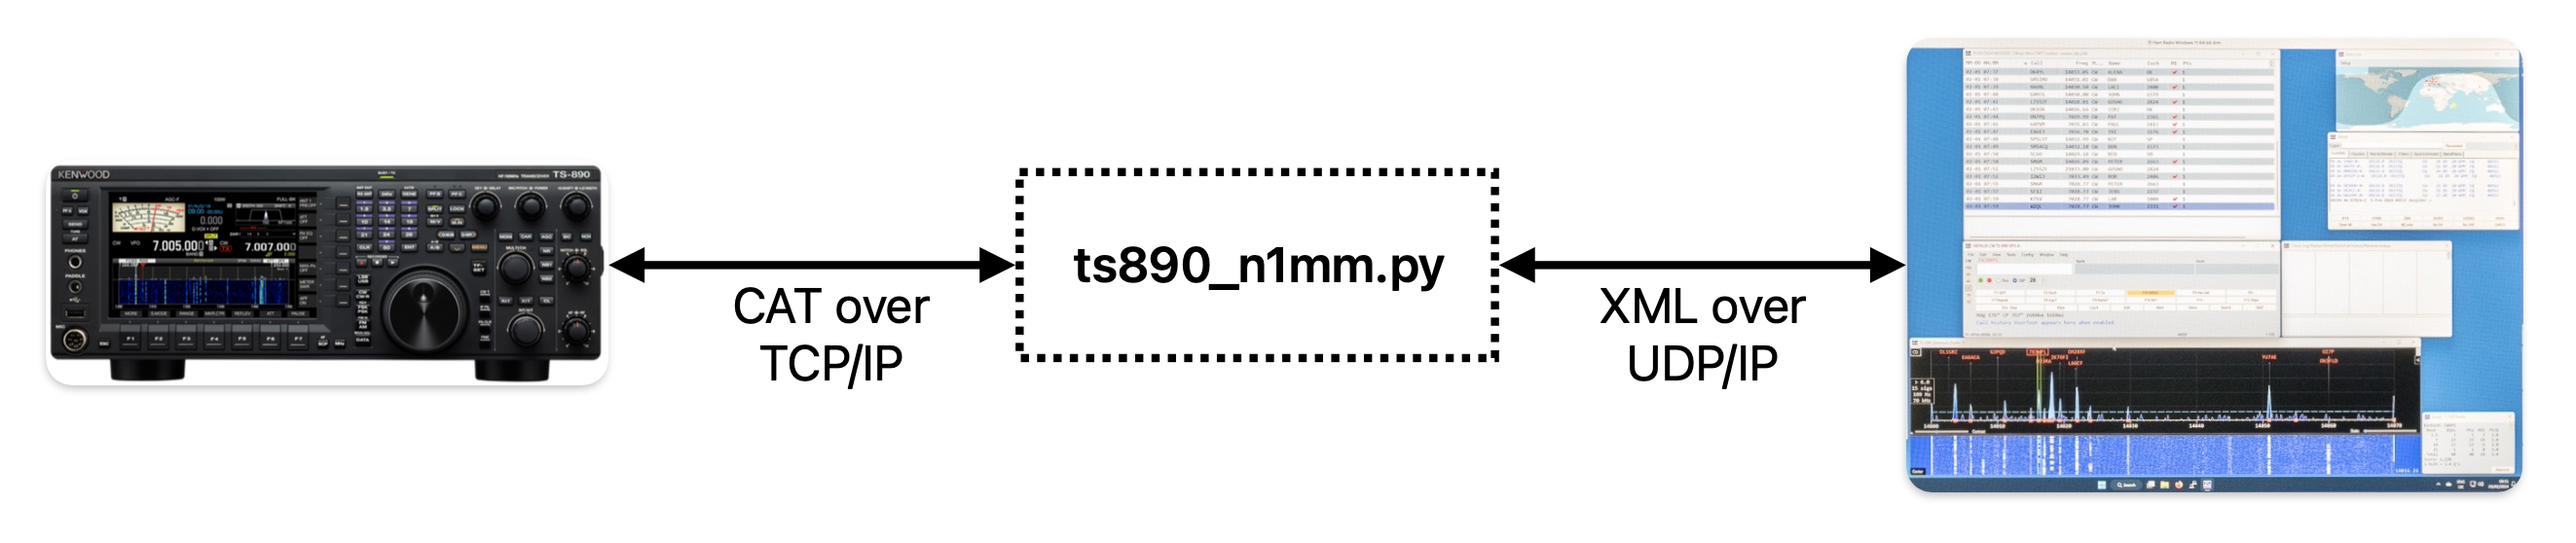
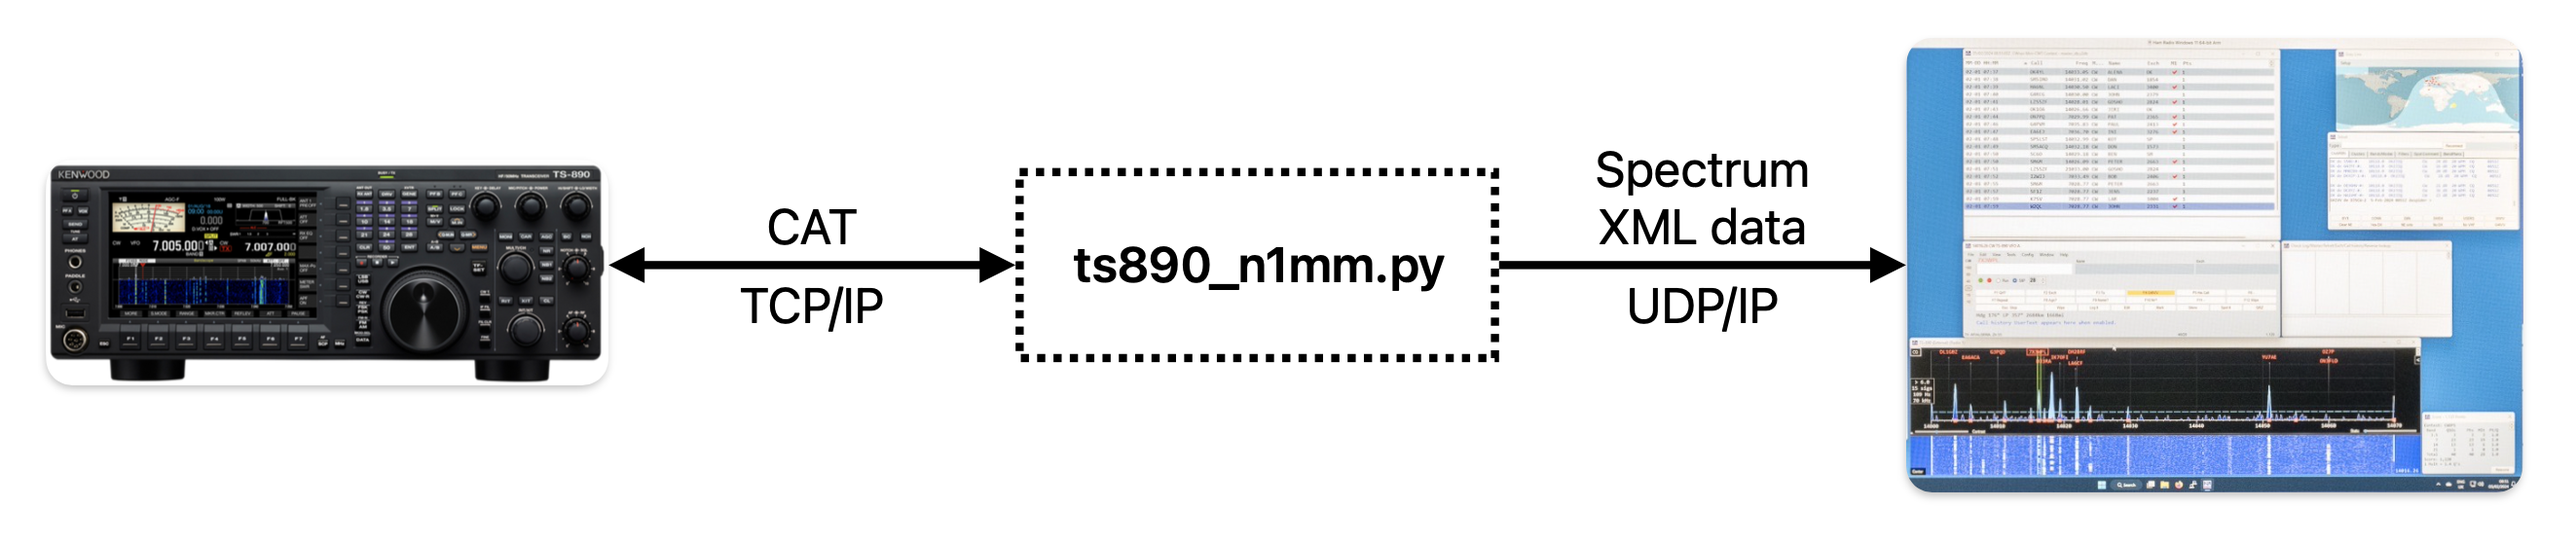
Added user account support, updated README

diff --git a/ts890_n1mm.py b/ts890_n1mm.py
@@ -1,8 +1,8 @@
 #!/usr/bin/env python3
 
 '''
-Script to connect to a Kenwood TS-890S, read the spectrum data and
-forward to an instance of N1MM+ logger.
+Script to connect to a Kenwood TS-890S, read the band scope data
+and forward to an instance of N1MM+ logger.
 
 (c) 2024 Jonathan Perkins G4IVV
 '''
@@ -10,6 +10,7 @@ forward to an instance of N1MM+ logger.
 import asyncio
 from asyncio import Queue
 import argparse
+import textwrap
 import xml.etree.ElementTree as ET
 
 
@@ -50,13 +51,12 @@ class AppException(Exception):
         ''' Getter for additional info '''
         return self._additional
 
-#--------------------------------------------------------------
-# TS-890 CAT command helpers
-#--------------------------------------------------------------
-
-def cat_id(username, password):
-    ''' Format an adminstrator ID login command '''
-    return f'##ID0{len(username):02}{len(password):02}{username}{password};'
+class Ts890ConnectionException(AppException):
+    ''' Exception for TS-890 connection errors '''
+    def __init__(self, value, additional=''):
+        self._context = 'TS-890 connection'
+        self._additional = additional
+        super(AppException, self).__init__(value)
 
 #--------------------------------------------------------------
 # TS-890 class
@@ -64,9 +64,10 @@ def cat_id(username, password):
 
 class Ts890:
     ''' TS-890 configuration and status '''
-    def __init__(self, host, user, password):
+    def __init__(self, host, account, is_admin, password):
         self._host = host
-        self._user = user
+        self._account = account
+        self._is_admin = is_admin
         self._password = password
         self._bs_mode = None
         self._bs_span_hz = None
@@ -82,9 +83,14 @@ class Ts890:
         return self._host
 
     @property
-    def user(self):
-        ''' Returns the username to login to the TS-890 '''
-        return self._user
+    def account(self):
+        ''' Returns the account name to login to the TS-890 '''
+        return self._account
+
+    @property
+    def is_admin(self):
+        ''' Returns True if the TS-890 credentials are for teh admin account '''
+        return self._is_admin
 
     @property
     def password(self):
@@ -245,7 +251,8 @@ class N1mmSpectrumProtocol:
     def connection_lost(self, exc):
         ''' Mandatory connection_lost method '''
         # The socket has been closed
-        print(f'N1MM transport closed: {exc}')
+        if exc:
+            print(f'N1MM transport closed: {exc}')
 
     def datagram_received(self, data, addr):
         ''' UDP datagram received callback '''
@@ -287,6 +294,20 @@ async def send_to_n1mm(queue: Queue, n1mm_host):
             queue.task_done()
     finally:
         transport.close()
+
+#--------------------------------------------------------------
+# TS-890 CAT command helpers
+#--------------------------------------------------------------
+
+def cat_id(ts890: Ts890):
+    ''' Format an adminstrator/user ID login command '''
+    if ts890.is_admin:
+        acct_type = 0
+    else:
+        acct_type =1
+    return (f'##ID{acct_type}'
+            f'{len(ts890.account):02}{len(ts890.password):02}'
+            f'{ts890.account}{ts890.password};')
 
 #--------------------------------------------------------------
 # Interface to TS-890
@@ -474,7 +495,7 @@ class Ts890Connection:
             and save it in the queue
         '''
         try:
-            print(f"Connecting to TS-890 {self._ts890.host}")
+            print(f"Connecting to TS-890 [{self._ts890.host}]")
             self._reader, self._writer = await asyncio.wait_for(
                 asyncio.open_connection(self._ts890.host, KNS_CTRL_PORT),
                 10)
@@ -485,7 +506,7 @@ class Ts890Connection:
                 # Response ##CNx; (x=1 ok, x=0 connection refused)
                 if resp == '##CN1;':
                     # Send ##ID & read response ##IDx; (x=1 ok, x=0 connection refused)
-                    resp = await self._send_cmd_wait_response(cat_id(self._ts890.user, self._ts890.password))
+                    resp = await self._send_cmd_wait_response(cat_id(self._ts890))
                     if resp == '##ID1;':
                         print('Connected OK')
                         # Turn on auto information AI2;
@@ -502,16 +523,16 @@ class Ts890Connection:
                                 self._do_heartbeat()
                         )
                     else:
-                        print('TS-890 login failure')
+                        raise Ts890ConnectionException('login failure',
+                                additional='[check account information is correct]')
                 else:
-                    print('TS-890 connection refused')
+                    raise Ts890ConnectionException('connection refused')
             finally:
                 self._writer.close()
                 await self._writer.wait_closed()
         except asyncio.TimeoutError as exp:
-            raise AppException('timeout connecting to',
-                               context='TS-890 connection',
-                               additional=self._ts890.host) from exp
+            raise Ts890ConnectionException('timeout connecting to',
+                    additional=self._ts890.host) from exp
         except OSError as exp:
             raise AppException(exp, 'connecting to TS-890') from exp
 
@@ -537,27 +558,46 @@ async def main(ts890, n1mm):
         pass
 
 if __name__ == '__main__':
-    PARSER = argparse.ArgumentParser(fromfile_prefix_chars='@')
+    PARSER = argparse.ArgumentParser(
+        fromfile_prefix_chars='@',
+        description=textwrap.dedent(
+            r'''
+            Script to read bandscope data from a TS-890S and send it to N1MM+ logger.
+            ''')
+    )
 
-    PARSER.add_argument('-t', '--ts890',
-                        required=True,
-                        dest = 'ts890',
-                        metavar = '<host or addr>',
-                        help = 'TS-890 IP address or hostname')
+    TS890_GROUP = PARSER.add_argument_group('TS-890 options')
 
-    PARSER.add_argument('-u', '--username',
-                        required=True,
-                        dest = 'user',
-                        metavar = '<username>',
-                        help = 'TS-890 username')
+    TS890_GROUP.add_argument('-t', '--ts890',
+                             required=True,
+                             dest = 'ts890',
+                             metavar = '<host or addr>',
+                             help = 'TS-890 IP address or hostname')
 
-    PARSER.add_argument('-p', '--password',
-                        required=True,
-                        dest = 'password',
-                        metavar = '<password>',
-                        help = 'TS-890 password')
+    TS890_GROUP.add_argument('-p', '--password',
+                             required=True,
+                             dest = 'password',
+                             metavar = '<password>',
+                             help = 'TS-890 password')
 
-    PARSER.add_argument('-n', '--n1mm',
+    # Mutually exclusive account group for TS-890
+    ACCOUNT_GROUP = PARSER.add_argument_group(
+        'Specify either an admin or user account for the TS-890')
+    ACCOUNTS = ACCOUNT_GROUP.add_mutually_exclusive_group(required=True)
+
+    ACCOUNTS.add_argument('-a', '--admin',
+                          dest = 'admin',
+                          metavar = '<admin account name>',
+                          help = 'TS-890 admin name')
+
+    ACCOUNTS.add_argument('-u', '--user',
+                          dest = 'user',
+                          metavar = '<user account name>',
+                          help = 'TS-890 user name')
+
+    N1MM_GROUP = PARSER.add_argument_group('N1MM options')
+
+    N1MM_GROUP.add_argument('-n', '--n1mm',
                         dest = 'n1mm',
                         metavar = '<host or addr>',
                         help = 'N1MM IP address or hostname',
@@ -566,9 +606,13 @@ if __name__ == '__main__':
     ARGS = PARSER.parse_args()
 
     try:
-        ts890_ctx = Ts890(ARGS.ts890, ARGS.user, ARGS.password)
+        # Admin or user account?
+        if ARGS.admin:
+            ts890_ctx = Ts890(ARGS.ts890, ARGS.admin, True, ARGS.password)
+        else:
+            ts890_ctx = Ts890(ARGS.ts890, ARGS.user, False, ARGS.password)
         asyncio.run(main(ts890_ctx, ARGS.n1mm))
     except KeyboardInterrupt:
-        print('Caught keyboard interrupt')
+        print('\nCaught keyboard interrupt, exiting.\n')
     except AppException as ex:
-        print(f"Error: {ex.context}: {ex} {ex.additional}")
+        print(f"\nError: {ex.context}: {ex} {ex.additional}\n")

diff --git a/README.md b/README.md
@@ -1,10 +1,8 @@
 # ts890-n1mm-spectrum
 
-This is a Python script to send spectrum data from a network connected Kenwood TS-890S to N1MM+ logger.
-
 ![overview](images/overview_image.png)
 
-It allows the user to see the TS-890's bandscope in a N1MM spectrum display window with spots overlaid:
+This is a Python script to read band scope data from a network connected Kenwood TS-890S and send it formatted as spectrum data to N1MM+ logger. It allows the user to see the TS-890's bandscope in a N1MM spectrum display window with spots overlaid:
 
 ![example N1MM spectrum display](images/example_n1mm_bandscope_1.png)
 
@@ -18,28 +16,42 @@ Installation is simply download the __ts890_n1mm.py__ file to a directory of you
 
 ### Minimal usage example:
 
-```bash
-./ts890_n1mm.py -t 192.168.1.89 -u TS890_AdminUserName -p TS890_AdminPassword -n 192.168.1.11
+```
+./ts890_n1mm.py -t 192.168.1.89 -a AdminUserName -p AdminPassword -n 192.168.1.11
 ```
 
-In the above example, the TS-890 has an IP address of __192.168.1.89__ and has a KVS admin user called __TS890_AdminUserName__ with a password of __TS890_AdminPassword__. The Windows PC running N1MM+ has an IP address of __192.168.1.11__.
+In the above example, the TS-890 has an IP address of _192.168.1.89_ and has an admin user called _AdminUserName_ with a password of _AdminPassword_. The Windows PC running N1MM+ has an IP address of _192.168.1.11_. For more clarity the alternative long form of option names can be used:
+
+```
+./ts890_n1mm.py --ts890 192.168.1.89 --admin AdminUserName --password AdminPassword --n1mm 192.168.1.11
+```
 
 ### Displaying help
 
-Use the __--help__ command line option to list all options:
+Use the _--help_ command line option to list all options:
 
-```bash
+```
 ./ts890_n1mm.py --help
-usage: ts890_n1mm.py [-h] -t <host or addr> -u <username> -p <password> [-n <host or addr>]
+usage: ts890_n1mm.py [-h] -t <host or addr> -p <password> (-a <admin account name> | -u <user account name>) [-n <host or addr>]
+
+Script to read bandscope data from a TS-890S and send it to N1MM+ logger.
 
 optional arguments:
   -h, --help            show this help message and exit
+
+TS-890 options:
   -t <host or addr>, --ts890 <host or addr>
                         TS-890 IP address or hostname
-  -u <username>, --username <username>
-                        TS-890 username
   -p <password>, --password <password>
                         TS-890 password
+
+Specify either an admin or user account for the TS-890:
+  -a <admin account name>, --admin <admin account name>
+                        TS-890 admin name
+  -u <user account name>, --user <user account name>
+                        TS-890 user name
+
+N1MM options:
   -n <host or addr>, --n1mm <host or addr>
                         N1MM IP address or hostname
 ```
@@ -48,17 +60,17 @@ optional arguments:
 
 Command line arguments can be placed in a text file and loaded by:
 
-```bash
-$ ./ts890_n1mm.py @my_config.cfg
+```
+./ts890_n1mm.py @my_config.cfg
 ```
 
 Where __my_cfg.cfg__ for the previous example would be:
 
 ```
 --ts890=192.168.1.89
---username=TS890_AdminUserName
---password=TS890_AdminPassword
+--admin=AdminUserName
+--password=AdminPassword
 --n1mm=192.168.1.11
 ```
 
-Note: each argument must be on a new line and use the __--option=value__ format with an equals sign and no whitespace.
+Note: each argument must be on a new line and use the _--option=value_ format with an equals sign and no whitespace.
